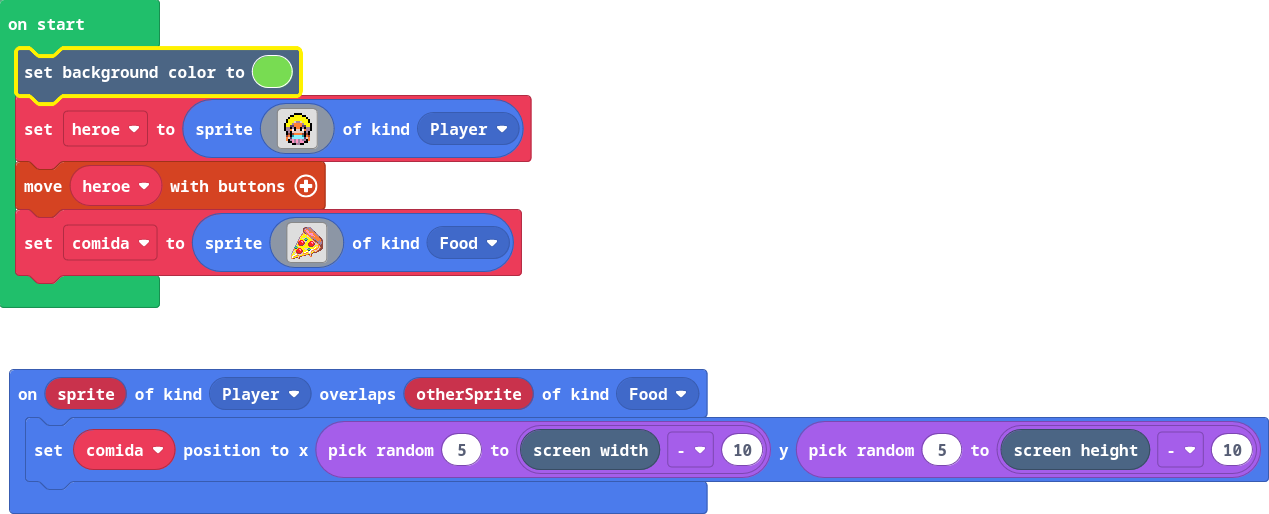
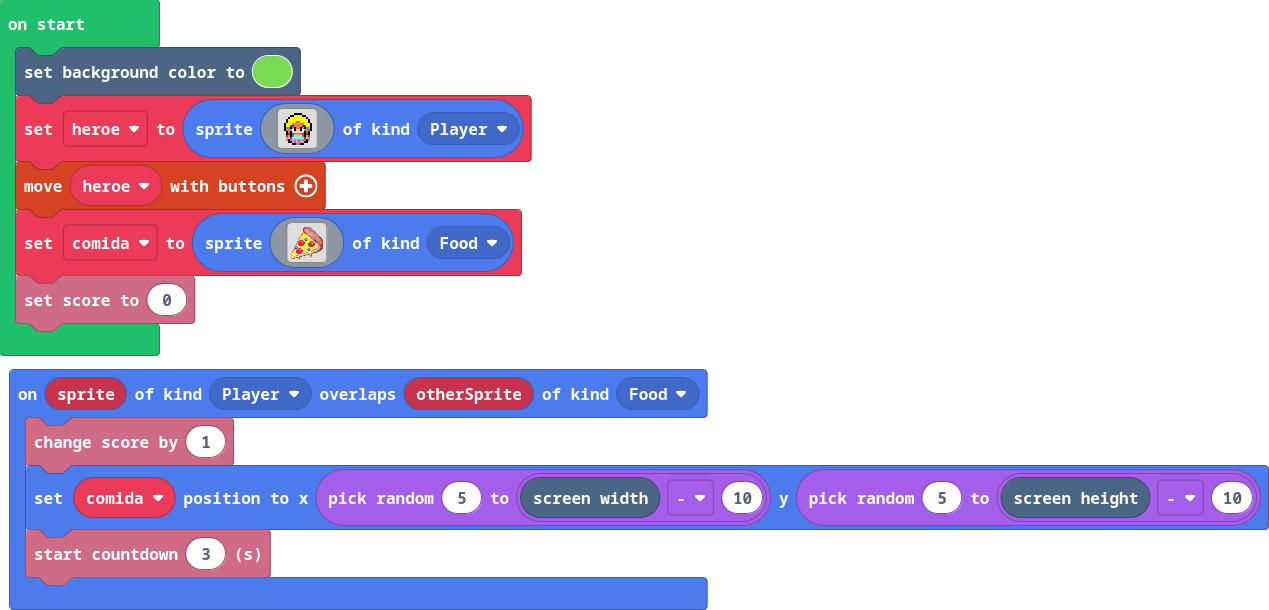
Added score

diff --git a/main.ts b/main.ts
@@ -1,5 +1,7 @@
 sprites.onOverlap(SpriteKind.Player, SpriteKind.Food, function (sprite, otherSprite) {
+    info.changeScoreBy(1)
     comida.setPosition(randint(5, scene.screenWidth() - 10), randint(5, scene.screenHeight() - 10))
+    info.startCountdown(3)
 })
 let comida: Sprite = null
 scene.setBackgroundColor(7)
@@ -56,3 +58,4 @@ comida = sprites.create(img`
     41554eede.......................
     44ee...4e.......................
     `, SpriteKind.Food)
+info.setScore(0)
